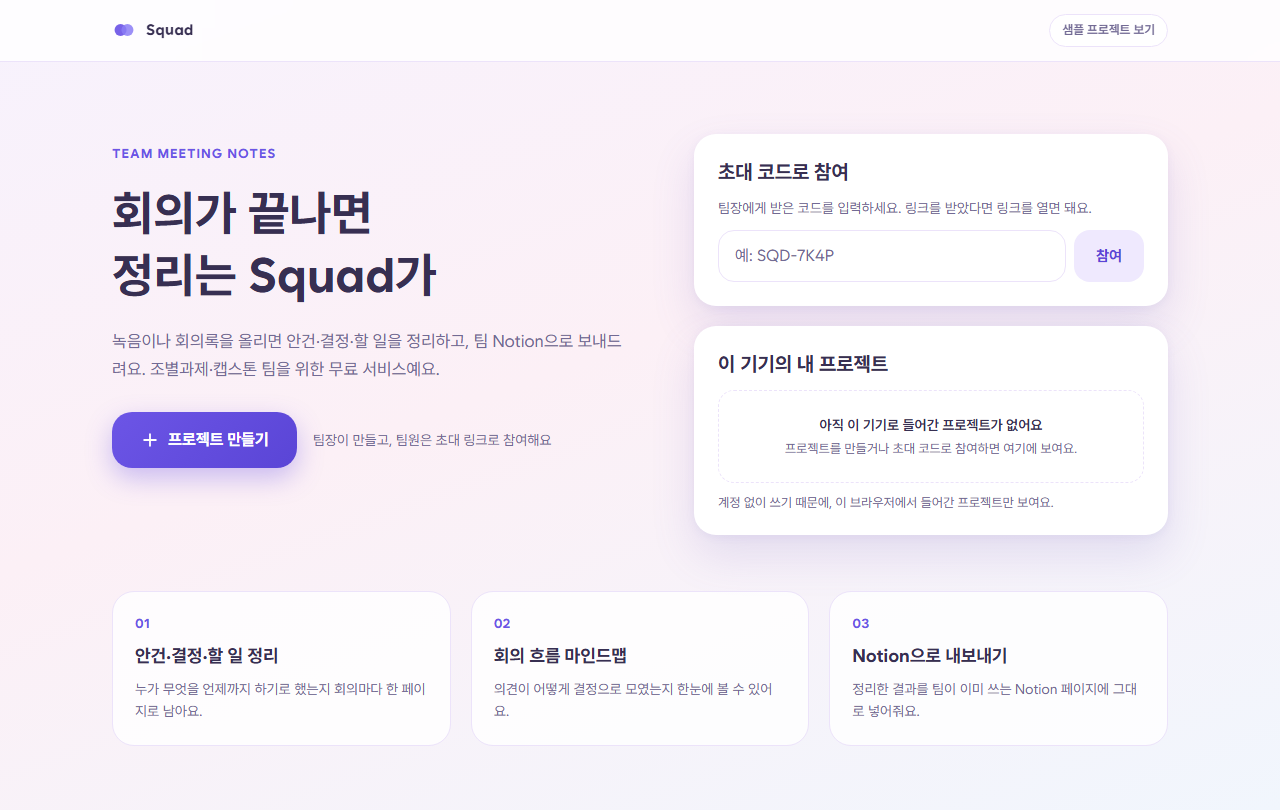
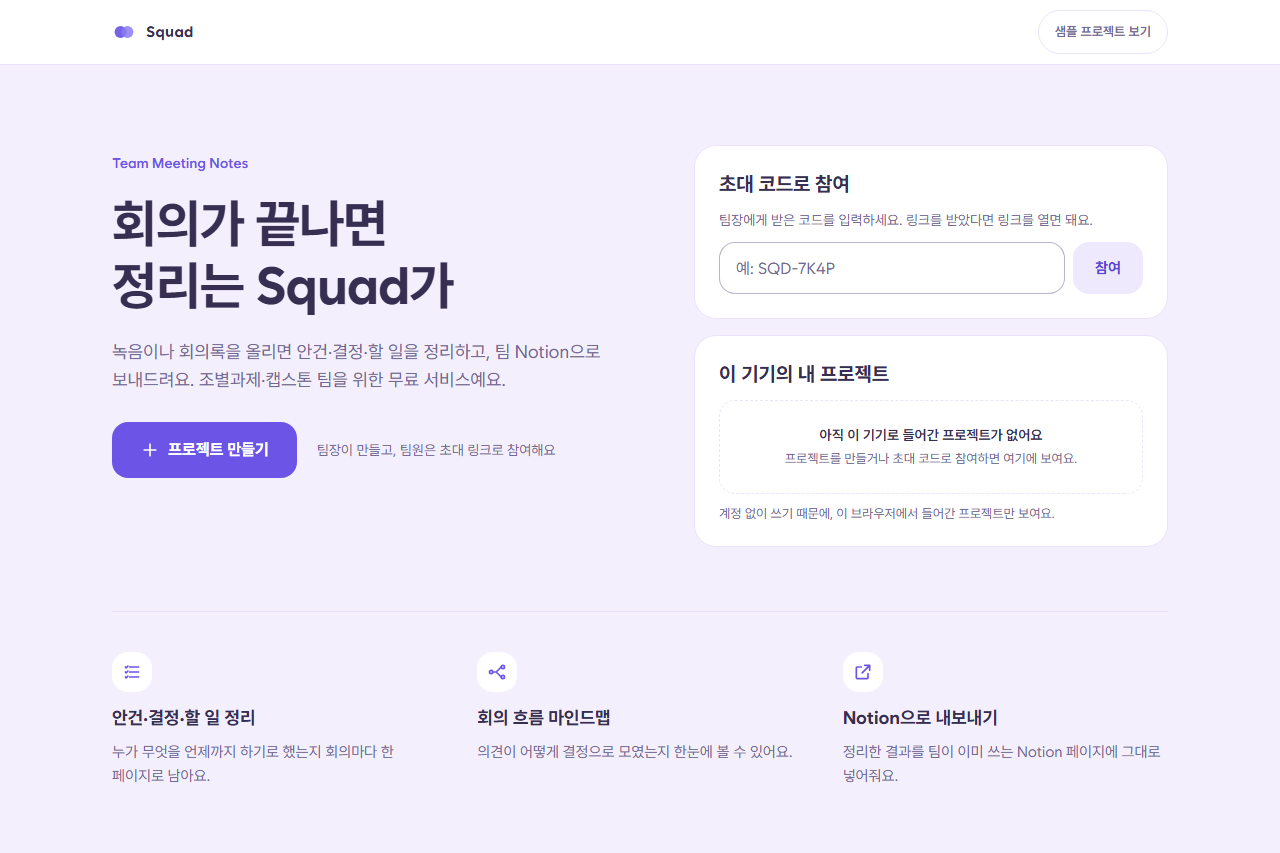
refactor(web): 메인 페이지를 단색·선 중심으로 정리
그라데이션·그림자·번호 카드를 덜어내 템플릿 느낌을 줄임.

diff --git a/apps/web/app/page.tsx b/apps/web/app/page.tsx
@@ -7,68 +7,113 @@ import { getMyProjects } from "@/lib/my-projects";
 
 // 메인(/) — 프로젝트 만들기, 초대 코드로 참여, 이 기기의 내 프로젝트
 // 샘플 프로젝트는 아직 /dashboard 예시 화면으로 연결 (프로젝트 메인 /p/[id]를 만들면 옮김)
+// 표현 원칙: 그라데이션·빛나는 그림자 없이 단색 면과 얇은 선으로 정리 (Flat 방향)
 const SAMPLE_HREF = "/dashboard";
 
-const features = [
-  { no: "01", title: "안건·결정·할 일 정리", body: "누가 무엇을 언제까지 하기로 했는지 회의마다 한 페이지로 남아요." },
-  { no: "02", title: "회의 흐름 마인드맵", body: "의견이 어떻게 결정으로 모였는지 한눈에 볼 수 있어요." },
-  { no: "03", title: "Notion으로 내보내기", body: "정리한 결과를 팀이 이미 쓰는 Notion 페이지에 그대로 넣어줘요." },
+type IconName = "list" | "flow" | "export";
+
+const features: { icon: IconName; title: string; body: string }[] = [
+  { icon: "list", title: "안건·결정·할 일 정리", body: "누가 무엇을 언제까지 하기로 했는지 회의마다 한 페이지로 남아요." },
+  { icon: "flow", title: "회의 흐름 마인드맵", body: "의견이 어떻게 결정으로 모였는지 한눈에 볼 수 있어요." },
+  { icon: "export", title: "Notion으로 내보내기", body: "정리한 결과를 팀이 이미 쓰는 Notion 페이지에 그대로 넣어줘요." },
 ];
 
-function PlusIcon() {
-  return (
-    <svg width="20" height="20" viewBox="0 0 24 24" fill="none" stroke="currentColor" strokeWidth="2.2" strokeLinecap="round" aria-hidden="true">
-      <path d="M12 5v14" />
-      <path d="M5 12h14" />
-    </svg>
-  );
+function Icon({ name }: { name: IconName | "plus" | "chevron" }) {
+  const common = {
+    width: 20,
+    height: 20,
+    viewBox: "0 0 24 24",
+    fill: "none",
+    stroke: "currentColor",
+    strokeWidth: 2,
+    strokeLinecap: "round" as const,
+    strokeLinejoin: "round" as const,
+    "aria-hidden": true,
+  };
+  switch (name) {
+    case "plus":
+      return (
+        <svg {...common}>
+          <path d="M12 5v14M5 12h14" />
+        </svg>
+      );
+    case "chevron":
+      return (
+        <svg {...common} width={16} height={16}>
+          <path d="M9 6l6 6-6 6" />
+        </svg>
+      );
+    case "list":
+      return (
+        <svg {...common}>
+          <path d="M9 6h11M9 12h11M9 18h11" />
+          <path d="M4 6l1 1 2-2M4 12l1 1 2-2M4 18l1 1 2-2" />
+        </svg>
+      );
+    case "flow":
+      return (
+        <svg {...common}>
+          <circle cx="5" cy="12" r="2" />
+          <circle cx="19" cy="6" r="2" />
+          <circle cx="19" cy="18" r="2" />
+          <path d="M7 12h4l6-6M11 12l6 6" />
+        </svg>
+      );
+    case "export":
+      return (
+        <svg {...common}>
+          <path d="M14 4h6v6M20 4l-9 9" />
+          <path d="M18 14v5a1 1 0 0 1-1 1H5a1 1 0 0 1-1-1V7a1 1 0 0 1 1-1h5" />
+        </svg>
+      );
+  }
 }
 
 export default function HomePage() {
   const myProjects = getMyProjects();
 
   return (
-    <>
+    <div className="min-h-screen break-keep bg-surface-alt [overflow-wrap:anywhere]">
       <SiteHeader nav={{ href: SAMPLE_HREF, label: "샘플 프로젝트 보기", shortLabel: "샘플 보기" }} />
 
-      <main className="mx-auto flex w-full max-w-page flex-col gap-6 px-5 pb-16 pt-9 sm:px-8 md:gap-14 md:pb-16 md:pt-[72px]">
-        <div className="flex flex-wrap items-start gap-6 md:gap-12">
+      <main className="mx-auto flex w-full max-w-page flex-col gap-8 px-5 pb-16 pt-10 sm:px-8 md:gap-16 md:pt-20">
+        <div className="flex flex-wrap items-start gap-8 md:gap-12">
           {/* 소개 + 프로젝트 만들기 */}
-          <section className="flex min-w-0 flex-[1_1_460px] animate-fade-up flex-col gap-3 md:gap-5 md:pt-3">
-            <p className="m-0 text-xs font-bold uppercase tracking-[.08em] text-accent-strong md:text-[13px]">Team Meeting Notes</p>
-            <h1 className="m-0 font-display text-[30px] font-bold leading-[1.35] md:text-5xl md:leading-[1.3]">
+          <section className="flex min-w-0 flex-[1_1_460px] animate-fade-up flex-col gap-4 md:gap-5 md:pt-2">
+            <p className="m-0 text-sm font-semibold text-accent-strong">Team Meeting Notes</p>
+            <h1 className="m-0 text-balance font-display text-[32px] font-bold leading-[1.3] tracking-[-.02em] md:text-[52px] md:leading-[1.2]">
               회의가 끝나면
               <br />
               정리는 {BRAND.name}가
             </h1>
-            <p className="m-0 max-w-[30em] text-[15px] leading-[1.65] text-ink-soft md:text-[17px] md:leading-[1.7]">
+            <p className="m-0 max-w-[30em] text-base leading-[1.7] text-ink-soft md:text-lg">
               녹음이나 회의록을 올리면 안건·결정·할 일을 정리하고, 팀 Notion으로 보내드려요. 조별과제·캡스톤 팀을 위한 무료 서비스예요.
             </p>
-            <div className="mt-3 flex flex-col gap-2.5 md:mt-2 md:flex-row md:flex-wrap md:items-center md:gap-4">
+            <div className="mt-2 flex flex-col gap-3 md:flex-row md:flex-wrap md:items-center md:gap-5">
               <Link
                 href="/projects/new"
-                className="flex h-14 items-center justify-center gap-2 rounded-md bg-cta px-7 text-base font-bold text-white no-underline shadow-glow transition hover:shadow-glow-lg"
+                className="flex h-14 items-center justify-center gap-2 rounded-sm bg-accent-strong px-7 text-base font-bold text-white no-underline transition-colors duration-150 hover:bg-accent-deep"
               >
-                <PlusIcon />
+                <Icon name="plus" />
                 프로젝트 만들기
               </Link>
-              <span className="text-center text-[13px] text-ink-soft md:text-left md:text-sm">팀장이 만들고, 팀원은 초대 링크로 참여해요</span>
+              <span className="text-center text-sm text-ink-soft md:text-left">팀장이 만들고, 팀원은 초대 링크로 참여해요</span>
             </div>
           </section>
 
           {/* 초대 코드 + 이 기기의 내 프로젝트 */}
-          <div className="flex min-w-0 flex-[1_1_400px] flex-col gap-6 md:gap-5">
-            <section aria-labelledby="join-title" className="flex flex-col gap-3 rounded-lg bg-white p-5 shadow-soft md:p-6">
+          <div className="flex min-w-0 flex-[1_1_400px] flex-col gap-4">
+            <section aria-labelledby="join-title" className="flex flex-col gap-3 rounded-lg border border-line bg-white p-5 md:p-6">
               <h2 id="join-title" className="m-0 font-display text-lg font-bold md:text-xl">
                 초대 코드로 참여
               </h2>
-              <label htmlFor="invite-code" className="text-[13px] text-ink-soft md:text-sm">
+              <label htmlFor="invite-code" className="text-sm text-ink-soft">
                 팀장에게 받은 코드를 입력하세요. 링크를 받았다면 링크를 열면 돼요.
               </label>
               <InviteCodeForm />
             </section>
 
-            <section aria-labelledby="my-projects-title" className="flex flex-col gap-3 rounded-lg bg-white p-5 shadow-soft md:p-6">
+            <section aria-labelledby="my-projects-title" className="flex flex-col gap-3 rounded-lg border border-line bg-white p-5 md:p-6">
               <h2 id="my-projects-title" className="m-0 font-display text-lg font-bold md:text-xl">
                 이 기기의 내 프로젝트
               </h2>
@@ -77,21 +122,27 @@ export default function HomePage() {
           </div>
         </div>
 
-        {/* 서비스 소개 — PC에서만 (모바일은 아래 샘플 링크로 대신) */}
-        <section aria-label={`${BRAND.name}가 하는 일`} className="hidden grid-cols-[repeat(auto-fit,minmax(240px,1fr))] gap-5 md:grid">
+        {/* 서비스 소개 — PC에서만 (모바일은 아래 샘플 링크로 대신). 카드 대신 위쪽 선으로 구분한 세 단 */}
+        <section aria-label={`${BRAND.name}가 하는 일`} className="hidden grid-cols-3 gap-10 border-t border-line pt-10 md:grid">
           {features.map((f) => (
-            <div key={f.no} className="flex flex-col gap-2 rounded-lg border border-line bg-white/80 p-[22px]">
-              <span className="text-[13px] font-bold text-accent-strong">{f.no}</span>
+            <div key={f.title} className="flex flex-col gap-2">
+              <span className="mb-1 inline-flex h-10 w-10 items-center justify-center rounded-sm bg-white text-accent-strong">
+                <Icon name={f.icon} />
+              </span>
               <h3 className="m-0 font-display text-lg font-bold">{f.title}</h3>
-              <p className="m-0 text-sm leading-[1.6] text-ink-soft">{f.body}</p>
+              <p className="m-0 text-[15px] leading-[1.65] text-ink-soft">{f.body}</p>
             </div>
           ))}
         </section>
 
-        <Link href={SAMPLE_HREF} className="self-center text-sm font-medium text-accent-deep hover:text-ink md:hidden">
-          샘플 프로젝트 둘러보기 →
+        <Link
+          href={SAMPLE_HREF}
+          className="inline-flex min-h-11 items-center gap-1 self-center text-[15px] font-semibold text-accent-deep transition-colors duration-150 hover:text-ink md:hidden"
+        >
+          샘플 프로젝트 둘러보기
+          <Icon name="chevron" />
         </Link>
       </main>
-    </>
+    </div>
   );
 }

diff --git a/apps/web/components/ui/SiteHeader.tsx b/apps/web/components/ui/SiteHeader.tsx
@@ -34,8 +34,8 @@ function NavIcon({ kind }: { kind: "grid" | "back" }) {
 
 export function SiteHeader({ context, nav }: Props) {
   return (
-    <header className="sticky top-0 z-20 border-b border-line bg-white/80 backdrop-blur-md">
-      <div className="mx-auto flex max-w-page items-center gap-2.5 px-4 py-3.5 sm:px-8">
+    <header className="sticky top-0 z-20 border-b border-line bg-white">
+      <div className="mx-auto flex max-w-page items-center gap-2.5 px-4 py-2.5 sm:px-8">
         <Link href="/" className="flex items-center gap-2.5 text-ink no-underline">
           <LogoMark />
           <span className="font-display text-[15px] font-bold tracking-wide">{BRAND.name}</span>
@@ -48,7 +48,7 @@ export function SiteHeader({ context, nav }: Props) {
         ) : null}
         <Link
           href={nav.href}
-          className="ml-auto inline-flex items-center gap-1.5 rounded-full border border-line bg-white px-3 py-1.5 text-[12.5px] font-semibold text-ink-soft transition hover:text-accent-strong"
+          className="ml-auto inline-flex min-h-11 items-center gap-1.5 rounded-full border border-line bg-white px-4 text-[13px] font-semibold text-ink-soft transition-colors duration-150 hover:border-accent hover:text-accent-strong"
         >
           {nav.icon ? <NavIcon kind={nav.icon} /> : null}
           {nav.shortLabel ? (

diff --git a/apps/web/components/home/InviteCodeForm.tsx b/apps/web/components/home/InviteCodeForm.tsx
@@ -42,11 +42,11 @@ export function InviteCodeForm() {
           onChange={(e) => setCode(e.target.value)}
           aria-describedby="invite-code-error"
           aria-invalid={error ? true : undefined}
-          className="h-12 min-w-0 flex-1 rounded-sm border border-line bg-white px-3.5 text-[15px] text-ink placeholder:text-ink-soft sm:h-[52px] sm:px-4 sm:text-base"
+          className="h-12 min-w-0 flex-1 rounded-sm border border-ink-soft/50 bg-white px-3.5 text-base text-ink transition-colors duration-150 placeholder:text-ink-soft hover:border-ink-soft sm:h-[52px] sm:px-4"
         />
         <button
           type="submit"
-          className="h-12 shrink-0 rounded-sm bg-accent-soft px-[18px] text-[15px] font-bold text-accent-deep transition hover:bg-line sm:h-[52px] sm:px-[22px]"
+          className="h-12 shrink-0 rounded-sm bg-accent-soft px-[18px] text-[15px] font-bold text-accent-deep transition-colors duration-150 hover:bg-line sm:h-[52px] sm:px-[22px]"
         >
           참여
         </button>

diff --git a/apps/web/components/home/MyProjectList.tsx b/apps/web/components/home/MyProjectList.tsx
@@ -23,7 +23,7 @@ export function MyProjectList({ items }: { items: MyProject[] }) {
               <li key={p.id}>
                 <Link
                   href={p.href}
-                  className="flex items-center justify-between gap-3 rounded-sm border border-line bg-white px-4 py-3.5 text-ink no-underline transition hover:border-accent sm:px-[18px] sm:py-4"
+                  className="flex items-center justify-between gap-3 rounded-sm border border-line bg-white px-4 py-3.5 text-ink no-underline transition-colors duration-150 hover:border-accent sm:px-[18px] sm:py-4"
                 >
                   <span className="flex min-w-0 flex-col gap-0.5">
                     <span className="truncate text-[15px] font-bold sm:text-base">{p.name}</span>
